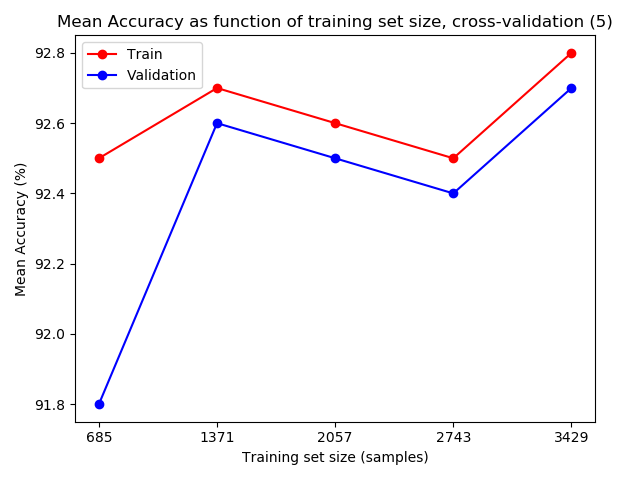
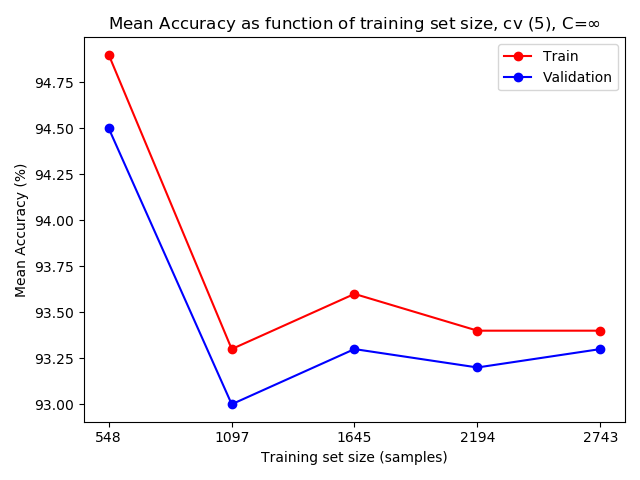
lr graphes

diff --git a/main.py b/main.py
@@ -2,6 +2,7 @@ import pandas as pd  # for load dataset
 import numpy as np
 from scipy.io import arff  # convert from artff to csv
 
+import LR
 import SVM
 from utils import remove_example_id, split_x_y, remove_unnecessary_features, split_k, shuffel, plot_data, plot_train_vald
 from sklearn.model_selection import train_test_split, cross_validate
@@ -47,7 +48,7 @@ train_data_x, test_data_x, train_data_y, test_data_y = train_test_split(data_x, 
 '''lr = lr_witout_k_fold(train_data_x, train_data_y)
 svm_model = find_best_svm_model(train_data_x,train_data_y)
 witout_k_fold_with_regulariztion(train_data_x, train_data_y)'''
-SVM.without_cross(train_data_x, train_data_y, regularization=True)
+LR.without_cross(train_data_x, train_data_y, regularization=False)
 exit()
 
 prec = [0.2, 0.4, 0.6, 0.8, 1]

diff --git a/LR.py b/LR.py
@@ -8,7 +8,7 @@ NO_REGULARIZATION = sys.float_info.max
 
 
 def with_cross(train_data_x, train_data_y, regularization=False):
-    c = 0.001 if regularization else NO_REGULARIZATION
+    c = 2 if regularization else NO_REGULARIZATION
     prec = [0.2, 0.4, 0.6, 0.8, 1]
     acc_train = []
     acc_vald = []
@@ -28,7 +28,7 @@ def with_cross(train_data_x, train_data_y, regularization=False):
 
 
 def without_cross(train_data_x, train_data_y, regularization=False):
-    c = 0.001 if regularization else NO_REGULARIZATION
+    c = 2 if regularization else NO_REGULARIZATION
     training_set_size = int((4 / 5) * len(train_data_x))
     vald_x = train_data_x[training_set_size + 1:]
     vald_y = train_data_y[training_set_size + 1:]
